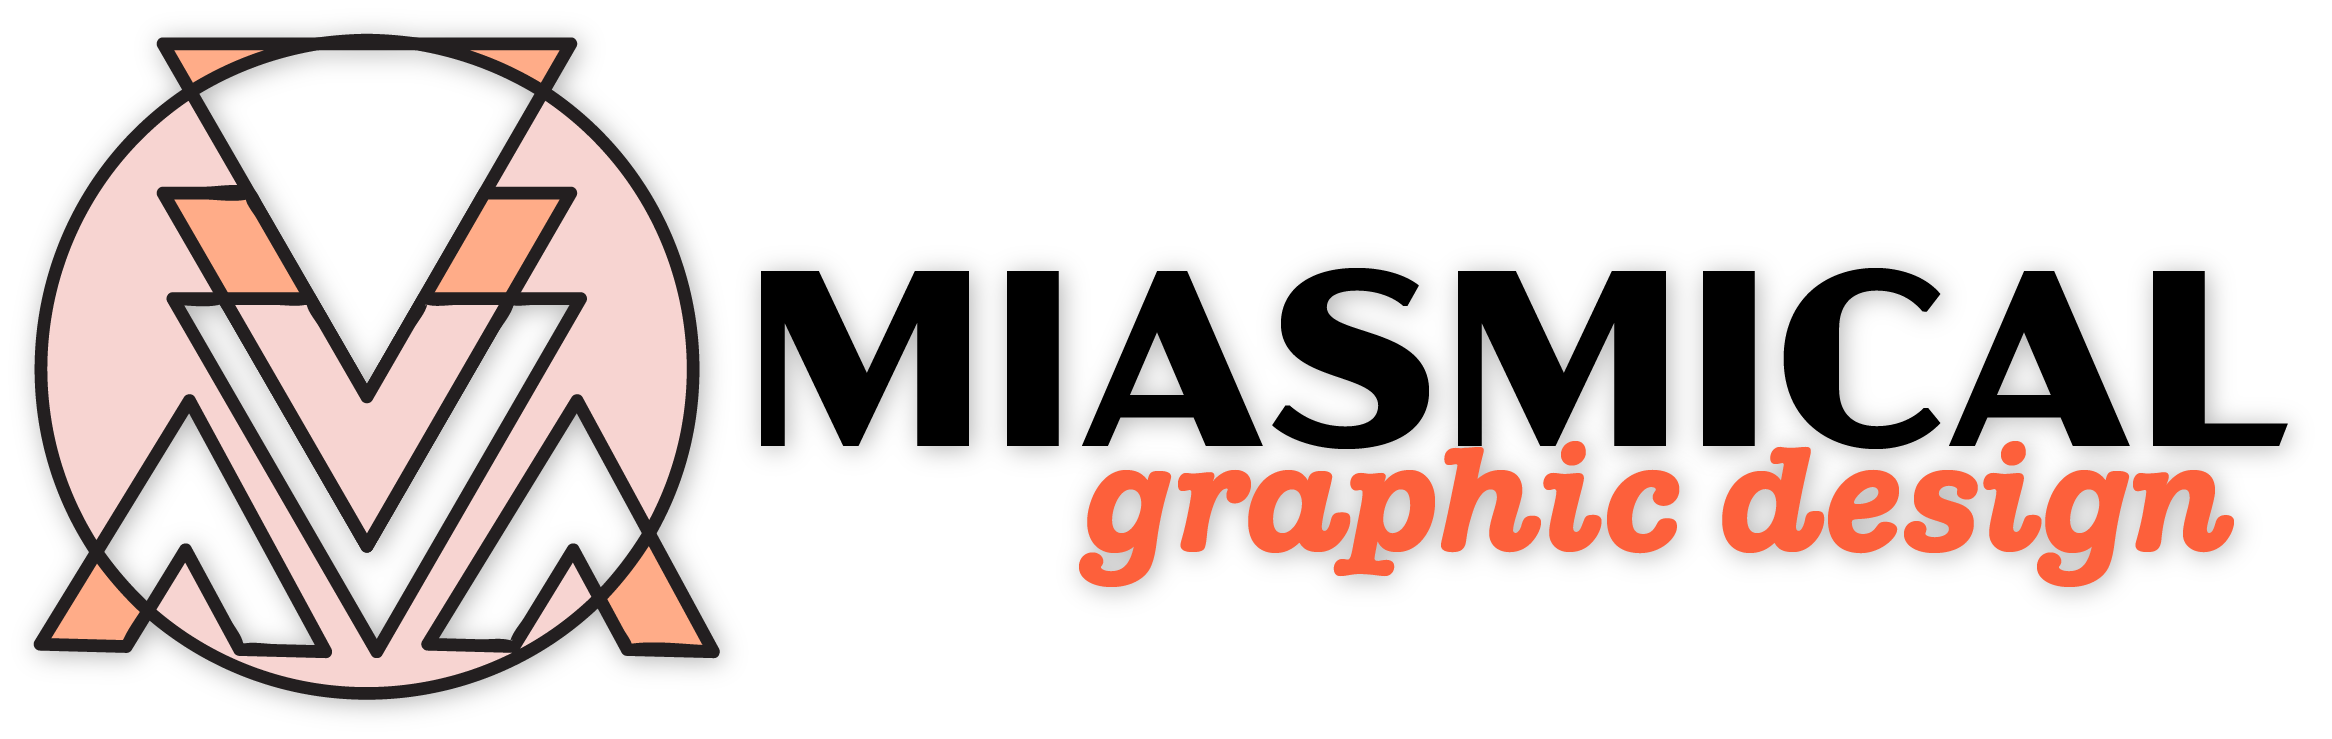
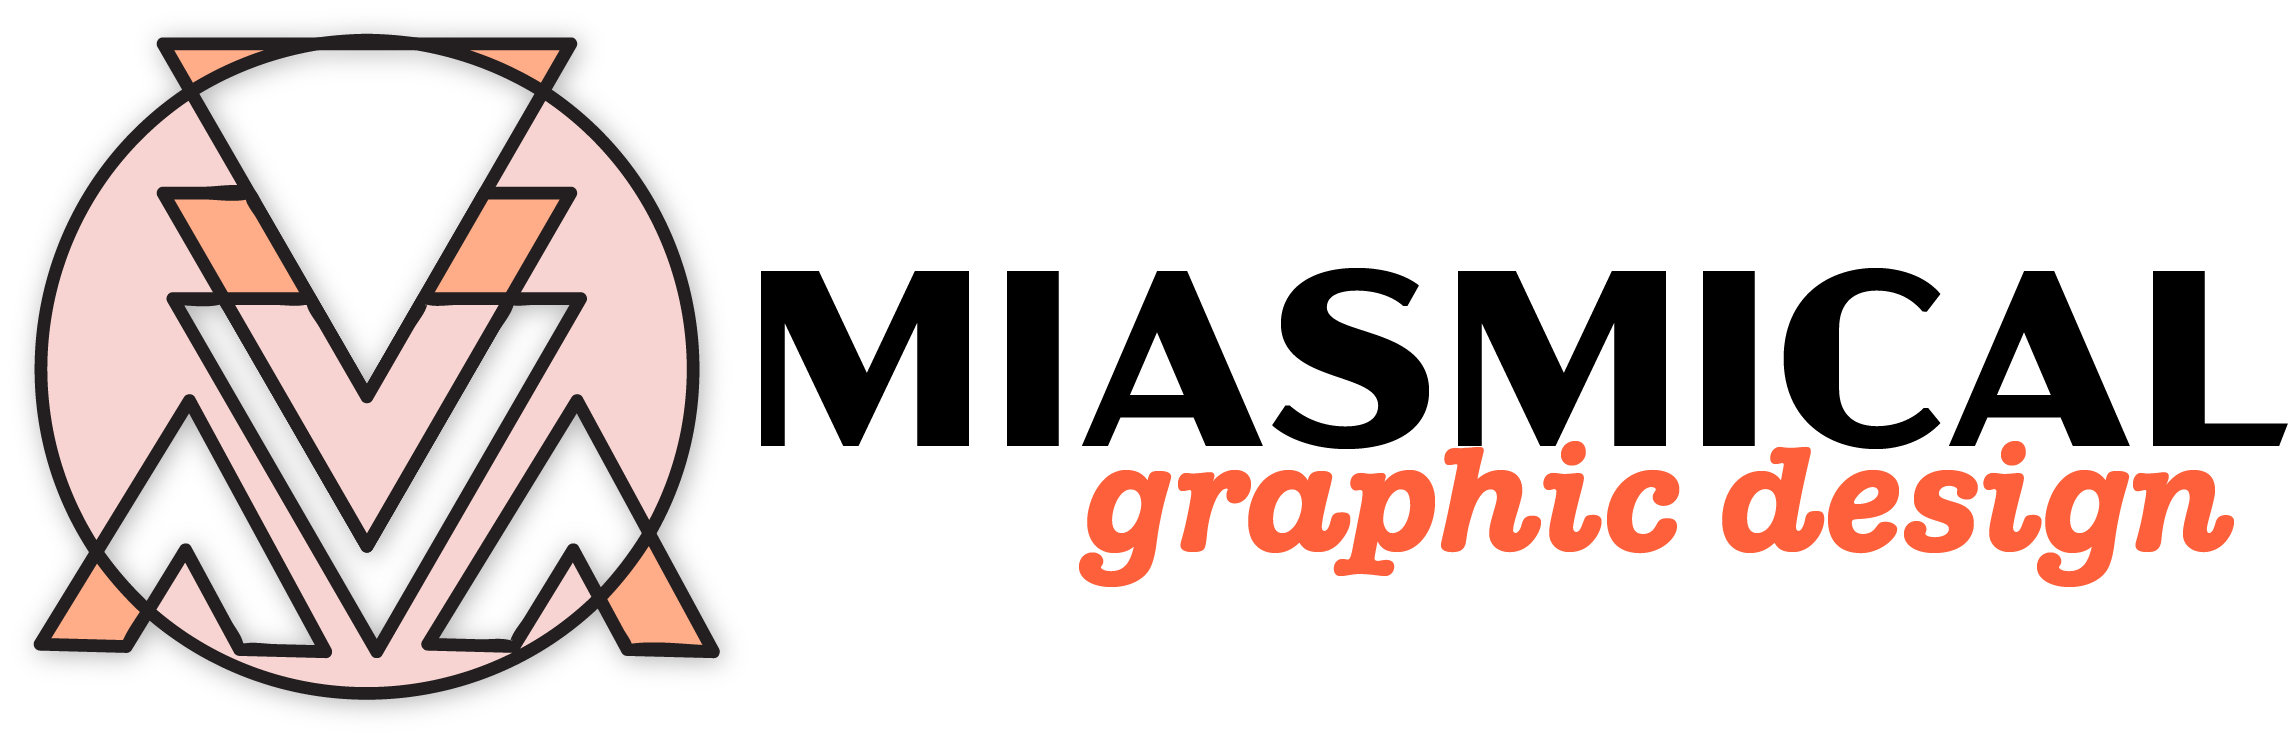
asdf
reupload banner no drop shadow

diff --git a/index.html b/index.html
@@ -90,7 +90,9 @@
                     padding-top:2.5%;
                     padding-right:2.5%;
                     border-radius: 4px">
-            miasmical graphic design
+            
+            <img src="images/SiteBranding/SiteBanner.png" style="width:50%;height:auto;>
+
             <span onclick="openNav()">
               <button class="button-primary" style="float:right;">
                 open navigation
